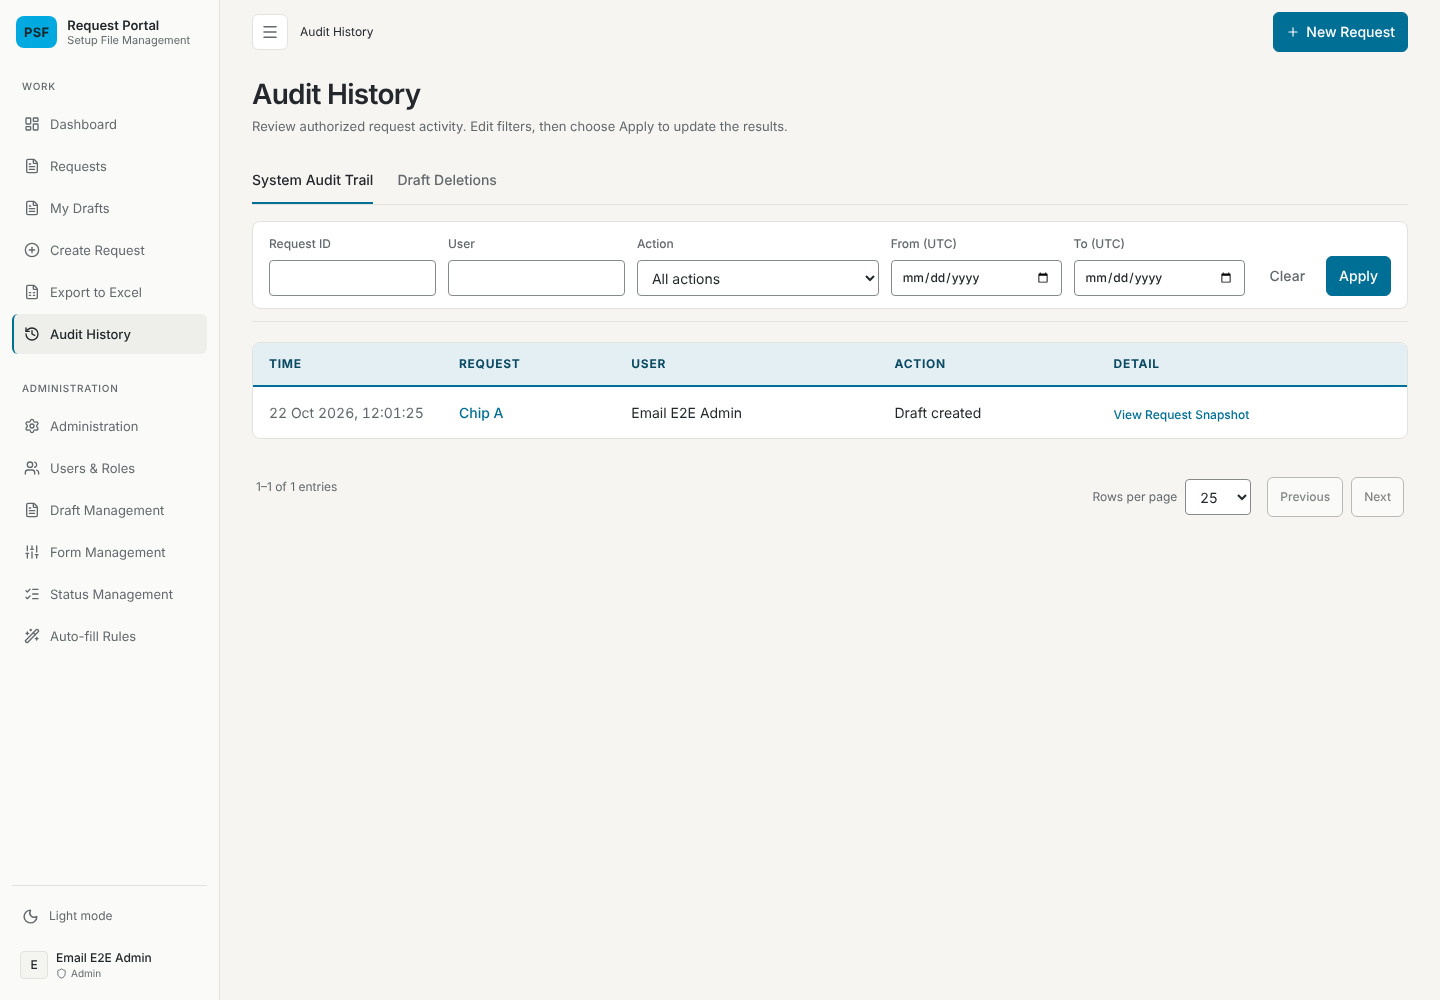
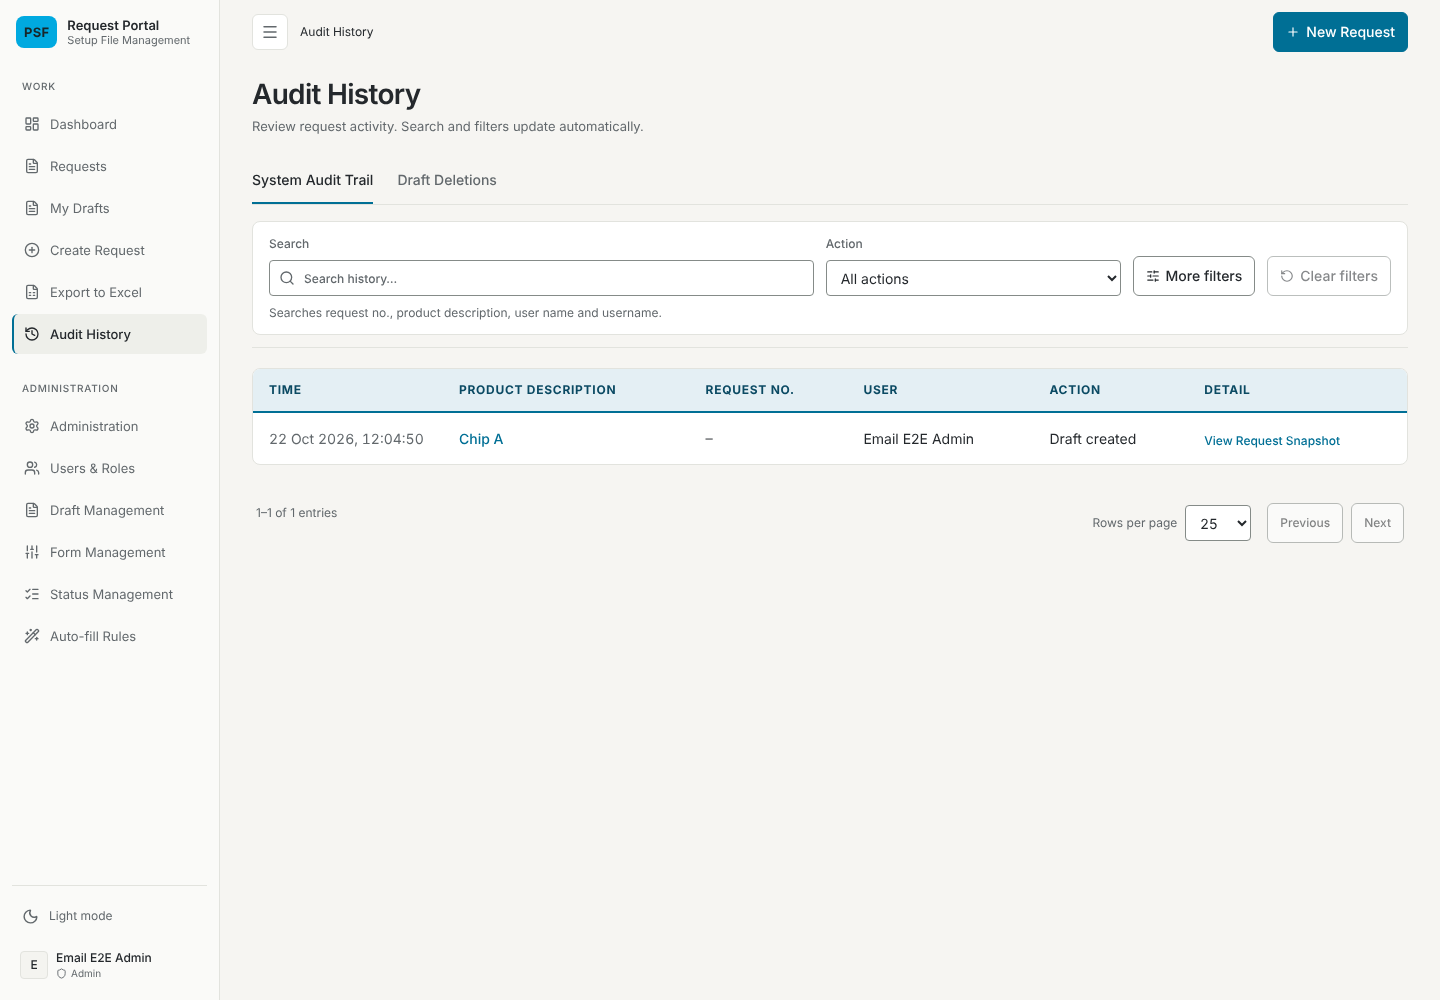
Refresh #106 verification after merging main
Claude-Session: https://claude.ai/code/session_01AVTyV4YNU889CzFzNmt7QD

diff --git a/docs/verification/2026-10-22-catalog-entries-hidden.md b/docs/verification/2026-10-22-catalog-entries-hidden.md
@@ -15,7 +15,7 @@ The issue first asked for a "—" in the Detail column instead of the
 "View changes" toggle; the product owner then asked to remove these entries from
 the page altogether.
 
-- Branch `claude/project-thread-bogu9x`, based on `main` at `6cb6bd5`.
+- Branch `claude/project-thread-bogu9x`, started from `main` at `6cb6bd5` and merged with `main` at `8b256c0` (PR #105, History search and filters).
 - Node 22.22.0. Browser: Chromium 141.0.7390.37 (`/opt/pw-browsers/chromium`),
   driven by Playwright 1.58.2 from `backend/node_modules`, headless, at a
   1440×1000 viewport.
@@ -26,26 +26,29 @@ the page altogether.
   `Setup Review`, then a rename of it to
   `Setup Review - 50% (Waiting for customer)` that also made it a PSF trigger.
 - Backend and frontend: the compiled builds of this branch ("after") and of
-  `6cb6bd5` ("before"). Company LDAP and SOAP were not contacted. External font
+  `8b256c0` ("before"). Company LDAP and SOAP were not contacted. External font
   requests are blocked by the fixture, so screenshots use fallback fonts.
 
 ## Test results
 
 | Check | Command | Result |
 | --- | --- | --- |
-| Frontend tests | `cd frontend && npx vitest run` | 39 files, 540 tests passed |
+| Frontend tests | `cd frontend && npx vitest run` | 39 files, 545 tests passed |
 | Frontend type check | `cd frontend && npx tsc -b` | Passed |
-| Frontend lint (changed files) | `cd frontend && npx eslint src/components/GlobalHistoryPage.tsx src/components/GlobalHistoryPage.test.tsx` | 1 error, present on the base: `GlobalHistoryPage.test.tsx` `no-useless-assignment` in the Draft Deletions tab test |
+| Frontend lint (changed files) | `cd frontend && npx eslint src/components/GlobalHistoryPage.tsx src/components/GlobalHistoryPage.test.tsx src/components/ui/HistoryChanges.tsx` | Passed |
 | Backend unit tests | `cd backend && npx jest` | 50 suites, 755 tests passed |
-| Backend API e2e | `cd backend && npm run test:e2e` | 21 passed |
-| Backend PGlite suites | `cd backend && node --require ts-node/register --test test/*.postgres.test.ts` | 111 passed, 0 failed, 1 skipped |
+| Backend API e2e | `cd backend && npm run test:e2e` | 20 passed, 1 failed, failing identically on `main` at `8b256c0`: `exposes ordered workflow statuses without transition rules to every authenticated role` does not expect the `filterStatuses` field PR #105 added |
+| Backend PGlite suites | `cd backend && node --require ts-node/register --test test/*.postgres.test.ts` | 114 passed, 0 failed, 1 skipped |
+| History browser system test | `node --test test/email-system.search-filters.e2e.mjs` (as the `postgres` user) | Passed |
 | Browser check | A scratch `node:test` file (outside the repository) using the fixture above, run as the `postgres` user | See below |
 
 `test/audit-visibility.postgres.test.ts` runs the real SQL on PGlite. For
 Requester, Setup Owner and Admin the list holds no catalog entry and the total
 equals the rows returned; with the action filter set to
 `WORKFLOW_CATALOG_UPDATED` an Admin gets no rows and a total of 0. These failed
-before the backend change. The Audit History page tests check that the Action
+before the backend change. PR #105's Bangkok-day boundary test there used
+catalog entries as generic events; it now uses `REQUEST_STATUS_CHANGED` rows so
+it still tests the date boundaries. The Audit History page tests check that the Action
 filter has no "Workflow catalog updated" option, and that a bulk Status
 replacement entry (no Request Snapshot) still shows "View changes" with its Work
 Status row and escapes the status name.
